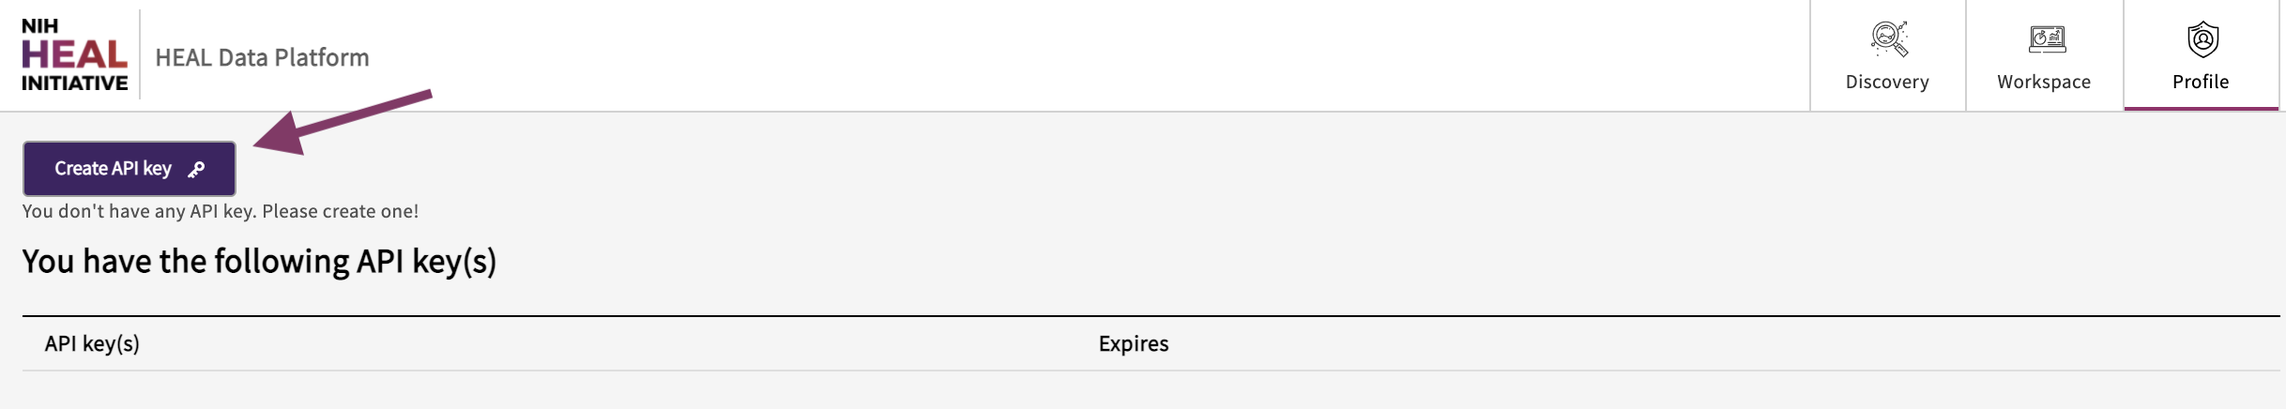
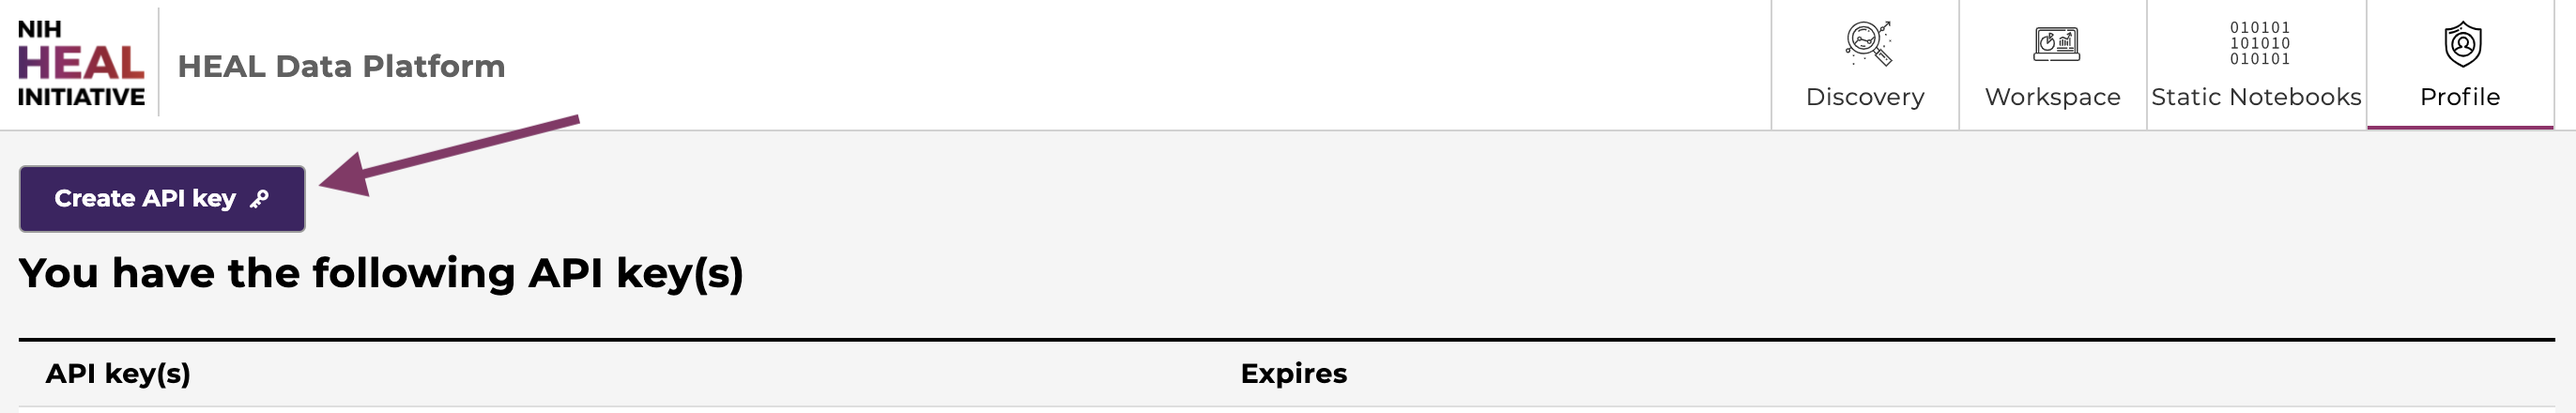
set1-screenshots

diff --git a/qa-heal.planx-pla.net/dashboard/Public/documentation/index.html b/qa-heal.planx-pla.net/dashboard/Public/documentation/index.html
@@ -106,7 +106,8 @@
                 <div class="ul-sidenav">
                     <a href="#DownloadFilesfromDiscovery">a) Download Data Files from the Discovery Page</a>
                     <a href="#DownloadFilesClientSDK">b) Download Data Files using the Gen3-client</a>
-                    <a href="#DownloadFilesSDKWorkspaces">c) Download Data Files in Workspaces using the Python SDK in the
+                    <a href="#DownloadFilesSDKWorkspaces">c) Download Data Files in Workspaces using the Python SDK in
+                        the
                         Workspaces</a>
                 </div>
                 <div class="sidenav-head">
@@ -299,7 +300,8 @@
 
                         <p>
                             Studies from different Data Resources can be filtered and selected
-                            on the <a href="#Discovery">Discovery Page</a> in the tags section:
+                            on the <a href="#Discovery">Discovery Page</a> in the Study Characteristics section (top
+                            panel):
                         </p>
                         <img class="drop-shadow" src="img/data_resources_tags.png" alt="data_resources_tags"
                             style="width:10%">
@@ -640,13 +642,13 @@
                                 <a href="#StaticNoteboks"
                                     style="background-image: url('img/grid_notebooks_color.png');"></a>
                                 <div class="details">
-                                    <h6><a href="#StaticNoteboks">Static Noteboks</a></h6>
+                                    <h6><a href="#StaticNoteboks">Static Notebooks</a></h6>
                                     <p class="image-author">Learn how to use Jupyter Notebooks to explore and visualize
                                         data available on the HEAL platform.</p>
                                 </div>
                             </li>
                             <li>
-                                <a href="#ProfilePage" style="background-image: url('img/grid_profile_color.png');"></a>
+                                <a href="#ProfilePage" style="background-image: url('img/profile_access.png');"></a>
                                 <div class="details">
                                     <h6><a href="#ProfilePage">Profile Page</a></h6>
                                     <p class="image-author">Review data access permissions and generate API credentials
@@ -710,25 +712,30 @@
                                 Login Page of the HEAL Platform.
                             </figcaption>
 
-                            <p>
-                                <span style="font-weight: bold">Login from Google:</span> You may login using any Google
-                                account credentials,
-                                or a G-suite enabled institutional email. This option may or may not be available
-                                depending on the
-                                institution or organization the user is associated with. Users should contact the IT
-                                support to verify if this option is available.
-                                For staff, students, and faculty of the University of Chicago, more information can be
-                                found <a href="https://its.uchicago.edu/g-suite/">here</a>.
-                            </p>
-                            <p>
-                                <span style="font-weight: bold">ORCID Login:</span> Users with an ORCID account can log
-                                in using their ORCID credentials.
-                            </p>
-                            <p>
-                                <span style="font-weight: bold">InCommon Login:</span> Users can login with a
-                                participating institution that is federated by
-                                InCommon. Click on “Select...” to browse and choose the institution.
-                            </p>
+                            <ul>
+                                <li>
+                                    <span style="font-weight: bold">Login from Google:</span> You may login using any
+                                    Google
+                                    account credentials,
+                                    or a G-suite enabled institutional email. This option may or may not be available
+                                    depending on the
+                                    institution or organization the user is associated with. Users should contact the IT
+                                    support to verify if this option is available.
+                                    For staff, students, and faculty of the University of Chicago, more information can
+                                    be
+                                    found <a href="https://its.uchicago.edu/g-suite/">here</a>.
+                                </li>
+                                <li>
+                                    <span style="font-weight: bold">ORCID Login:</span> Users with an ORCID account can
+                                    log
+                                    in using their ORCID credentials.
+                                </li>
+                                <li>
+                                    <span style="font-weight: bold">InCommon Login:</span> Users can login with a
+                                    participating institution that is federated by
+                                    InCommon. Click on “Select...” to browse and choose the institution.
+                                </li>
+                            </ul>
 
                             <p>
                                 After successfully logging in, your username will appear in the upper right-hand corner
@@ -1034,19 +1041,7 @@
                             </figcaption>
 
                             <h4 id="SearchFeatures" class="section-title">Search Features</h4>
-                            <p>
-                                Finding studies is made easy using keywords in the free text-based search bar or using
-                                tags.
-                            </p>
-                            <p>
-                                The free-text search bar can be used to search for study title,
-                                investigator name, or any keyword that is mentioned in the metadata of the study.
-                            </p>
-                            <p>
-                                Tag names cannot be
-                                searched in the free-text search bar, but instead selected on top of the Discovery Page,
-                                as shown below.
-                            </p>
+
                             <img class="drop-shadow" src="img/discovery_features.png" alt="DiscoveryFeatures"
                                 style="width:80%">
                             <figcaption>
@@ -1054,10 +1049,60 @@
                                 on the Discovery Page help navigating and refining the search.
                             </figcaption>
 
-                            <p>
-                                <span style="font-weight: bold;">
-                                </span>
-                            </p>
+                            <ol>
+                                <li>
+                                    <span style="font-weight: bold">Free Text Search</span>.
+                                    Finding studies is made easy using keywords in the free text-based search bar or
+                                    using
+                                    tags. The free-text search bar can be used to search for study title,
+                                    investigator name, or any keyword that is mentioned in the metadata of the study.
+                                    Type in any keyword mentioned in the metadata, except for what is stored as Tags.
+                                </li>
+                                <li>
+                                    <span style="font-weight: bold">Study Characteristics</span>. Click "Study
+                                    Characteristics" to
+                                    expand the search options. Find a range of tags in eight categories (Study Setting,
+                                    Study Design, Pain, Data Type,
+                                    Subject Characteristics, Intervention/Treatment, Substance Use, Data Resources) to
+                                    narrow down any search. Selecting
+                                    multiple tags work in a "OR" logic. Click on "Reset Selection" to start a new
+                                    search.
+                                </li>
+                                <li>
+                                    <span style="font-weight: bold">The total number of studies</span>. Shows the amount
+                                    of studies the HEAL Platform is currently displaying.
+                                </li>
+                                <li>
+                                    <span style="font-weight: bold">Export Options</span>. Login first to leverage the
+                                    export options. Select
+                                    one or multiple studies and 1) download the attached data files, 2) download a file
+                                    manifest (for data files whose
+                                    sizes exceed 250 MB), or 3) export the metadata and data files to a secure cloud
+                                    environment
+                                    "Workspaces" to start your custom data analysis in Python, R, or STATA.
+                                </li>
+                                <li>
+                                    <span style="font-weight: bold">Studies</span>. This feature presents all current
+                                    studies on the HEAL Platform.
+                                    Click on any study to show useful information about the study (metadata).
+                                    <a href="#FindStudyMetadata">Read further here</a>.
+                                </li>
+                                <li>
+                                    <span style="font-weight: bold">Data Availability</span>. Filter on available,
+                                    pending, and not-yet-available datasets.
+                                    <a href="#DataAvailabilityOptions">Read further here</a>.
+                                </li>
+                                <li>
+                                    <span style="font-weight: bold">Documentation</span>. This brings you to this page
+                                    you are currently on.
+                                </li>
+                                <li>
+                                    <span style="font-weight: bold">Login Page</span>. Login on the HEAL Platform to
+                                    leverage all features.
+                                    <a href="#LoginPage">Read further here</a>.
+                                </li>
+
+                            </ol>
 
 
 
@@ -1153,14 +1198,14 @@
                             </p>
                             <ol>
                                 <li>
-                                    Log in on <a href="https://healdata.org/login">healdata.org/login</a>. 
+                                    Log in on <a href="https://healdata.org/login">healdata.org/login</a>.
                                     Link your account to all FAIR repositories as
                                     described <a href="#LinkingAccessTo">here</a>.
                                     <br><br>
                                 </li>
                                 <li>
                                     Find and select the study by the project number (in this example: 1U24AR076730-01)
-                                    on the <a href="https://healdata.org/discovery">Discovery Page</a>. 
+                                    on the <a href="https://healdata.org/discovery">Discovery Page</a>.
                                     Find other current open-access studies <a href="#CurrentOAStudies">here</a>.<br><br>
                                 </li>
                                 <li>
@@ -1174,7 +1219,8 @@
                                     </figcaption><br><br>
                                 </li>
                                 <li>
-                                    Choose a workspace flavor and click "Launch". This step may take several minutes. <br><br>
+                                    Choose a workspace flavor and click "Launch". This step may take several minutes.
+                                    <br><br>
                                 </li>
                                 <li>
                                     Navigate to the <code>/pd/data/healdata.org/</code> folder and find the manifests
@@ -1391,8 +1437,8 @@
                             </ol>
 
                             <p>
-                                Further reading: read more about how to download data files into the Workspaces 
-                                <a href="#DownloadFilesSDKWorkspaces">here</a>. 
+                                Further reading: read more about how to download data files into the Workspaces
+                                <a href="#DownloadFilesSDKWorkspaces">here</a>.
                             </p>
 
 
@@ -1877,15 +1923,17 @@
                                 BACPAC_Synthetic_Data_Analysis.ipynb (“BACPAC synthetic data analysis”)
                             </p>
                             <p>
-                                <span style="font-weight: bold;">Users must be logged in and have their accounts linked to the 
-                                    <a href="#LinkingAccessTo">FAIR repositories</a> 
+                                <span style="font-weight: bold;">Users must be logged in and have their accounts linked
+                                    to the
+                                    <a href="#LinkingAccessTo">FAIR repositories</a>
                                     in order to follow the steps
                                     below.</span>
                             </p>
                             <ol>
                                 <li>
-                                    Go to the <a href="https://healdata.org/workspace">Workspace tab</a> and click “Launch” on the 
-                                    “BACPAC Synthetic Data Analysis 
+                                    Go to the <a href="https://healdata.org/workspace">Workspace tab</a> and click
+                                    “Launch” on the
+                                    “BACPAC Synthetic Data Analysis
                                     Notebook”. This may take a few minutes to load.<br>
                                     Note, that depending on the chosen notebook, this step varies to align with the name
                                     of the notebook/workspace.<br>
@@ -1893,13 +1941,15 @@
                                         alt="static_notebook_bacpac_demo_1" style="width:90%"><br><br>
                                 </li>
                                 <li>
-                                    Find and open the notebook in the landing directory by clicking on “BACPAC_Synthetic_Data_Analysis.ipynb".<br>
+                                    Find and open the notebook in the landing directory by clicking on
+                                    “BACPAC_Synthetic_Data_Analysis.ipynb".<br>
                                     <img class="drop-shadow" src="img/static_notebook_bacpac_demo.png"
                                         alt="notebook_browser_notebook1" style="width:90%"><br><br>
                                 </li>
                                 <li>
                                     Click the first two cells and run them by clicking into the cell and either using
-                                    shift+enter on the keyboard or selecting “Run”. Uncomment the commands as displayed below to install necessary packages.<br>
+                                    shift+enter on the keyboard or selecting “Run”. Uncomment the commands as displayed
+                                    below to install necessary packages.<br>
                                     <img class="drop-shadow" src="img/notebook_browser_run_cell.png"
                                         alt="notebook_browser_run_cell" style="width:90%"><br><br>
                                 </li>
@@ -2149,7 +2199,8 @@
 
 
 
-                            <h3 id="DownloadFilesSDKWorkspaces" class="section-title">c) Download Data Files in Workspaces using the
+                            <h3 id="DownloadFilesSDKWorkspaces" class="section-title">c) Download Data Files in
+                                Workspaces using the
                                 Python SDK</h3>
 
                             <p>
@@ -2175,7 +2226,8 @@
                                     <br> <br>
                                 </li>
                                 <li>
-                                    Select a workspace VM and click "Launch". Choose the "(Generic) Jupyter Notebook with R kernel" if you
+                                    Select a workspace VM and click "Launch". Choose the "(Generic) Jupyter Notebook
+                                    with R kernel" if you
                                     are familiar with setting up Python- or R-based Notebooks, or
                                     if you just exported one or multiple studies from the Discovery Page and want to
                                     start your custom analysis. Choose a VM with the name of the Notebook if you
@@ -2191,23 +2243,24 @@
                                     </figcaption> <br> <br>
                                 </li>
                                 <li>
-                                    Find all files under /data/healdata.org/ with the ending "PLACEHOLDER". 
-                                    These files can be directly downloaded either in the terminal or in a notebook cell. <br>
-                                    <img class="drop-shadow" src="img/workspace_placeholder.png" alt="workspace_placeholder"
-                                    style="width:80%">
-                                     <br> <br>
+                                    Find all files under /data/healdata.org/ with the ending "PLACEHOLDER".
+                                    These files can be directly downloaded either in the terminal or in a notebook cell.
+                                    <br>
+                                    <img class="drop-shadow" src="img/workspace_placeholder.png"
+                                        alt="workspace_placeholder" style="width:80%">
+                                    <br> <br>
                                 </li>
                                 <li>
                                     Click on one file and copy the command and GUID.
                                     <br>
-                                    <img class="drop-shadow" src="img/workspace_placeholder_guid.png" alt="workspace_placeholder_guid"
-                                    style="width:80%">
-                                     <br><br>
+                                    <img class="drop-shadow" src="img/workspace_placeholder_guid.png"
+                                        alt="workspace_placeholder_guid" style="width:80%">
+                                    <br><br>
                                 </li>
                                 <li>
                                     Open a new terminal under "New".
                                     <img class="drop-shadow" src="img/workspace_terminal.png" alt="workspace_terminal"
-                                    style="width:80%">
+                                        style="width:80%">
                                     <br><br>
                                 </li>
                                 <li>
@@ -2215,29 +2268,29 @@
                                     <code>
                                         gen3 pull_object "guid"
                                     </code><br><br>
-                                    <img class="drop-shadow" src="img/workspace_terminal_download.png" alt="workspace_terminal_download"
-                                    style="width:80%">
-                                <figcaption style="width:100%">
-                                    Type in the following command to download the file to the workspace. 
-                                </figcaption> <br> <br>
+                                    <img class="drop-shadow" src="img/workspace_terminal_download.png"
+                                        alt="workspace_terminal_download" style="width:80%">
+                                    <figcaption style="width:100%">
+                                        Type in the following command to download the file to the workspace.
+                                    </figcaption> <br> <br>
                                 </li>
                                 <li>
                                     The file should be downloaded and is ready to be worked with in your Notebook. <br>
-                                    <img class="drop-shadow" src="img/workspace_terminal_downloaded.png" alt="workspace_terminal_downloaded"
-                                    style="width:80%">
-                                <figcaption style="width:100%">
-                                    Downloaded files can be found in your home directory.
-                                </figcaption> <br> <br>
+                                    <img class="drop-shadow" src="img/workspace_terminal_downloaded.png"
+                                        alt="workspace_terminal_downloaded" style="width:80%">
+                                    <figcaption style="width:100%">
+                                        Downloaded files can be found in your home directory.
+                                    </figcaption> <br> <br>
                                 </li>
                             </ol>
                             <blockquote>
-                                <span style="font-weight: bold;">Note, that the command above can be used either in the 
+                                <span style="font-weight: bold;">Note, that the command above can be used either in the
                                     terminal or in a code cell </span>
-                                from within the notebook with 
+                                from within the notebook with
                                 <code>
                                     !gen3 pull_object "guid"
-                                </code>. 
-                                If you use the R kernel, change the command into 
+                                </code>.
+                                If you use the R kernel, change the command into
                                 <code>
                                     system("gen3 pull_object 'guid'")
                                 </code>
